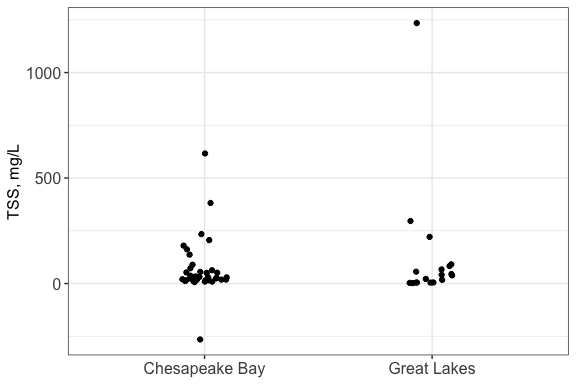
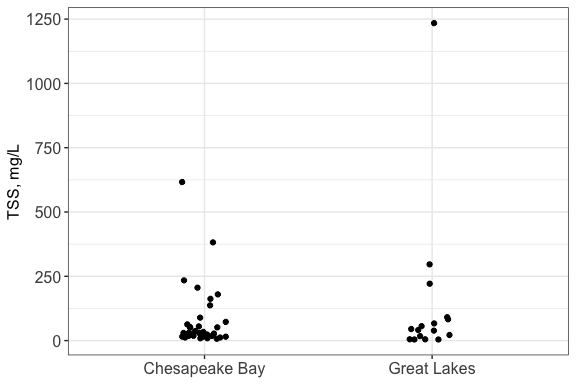
remove flagged data from graphs

diff --git a/Reports_markdown/EC1_exploratory_graphs.md b/Reports_markdown/EC1_exploratory_graphs.md
@@ -25,7 +25,7 @@ Date updated: 2022-06-09
 
 ## Soil: bulk density
 
-![](EC1_exploratory_graphs_files/figure-gfm/nd_jitter-1.png)<!-- -->
+![](EC1_exploratory_graphs_files/figure-gfm/bd_jitter-1.png)<!-- -->
 
 ![](EC1_exploratory_graphs_files/figure-gfm/bd_map-1.png)<!-- -->
 
